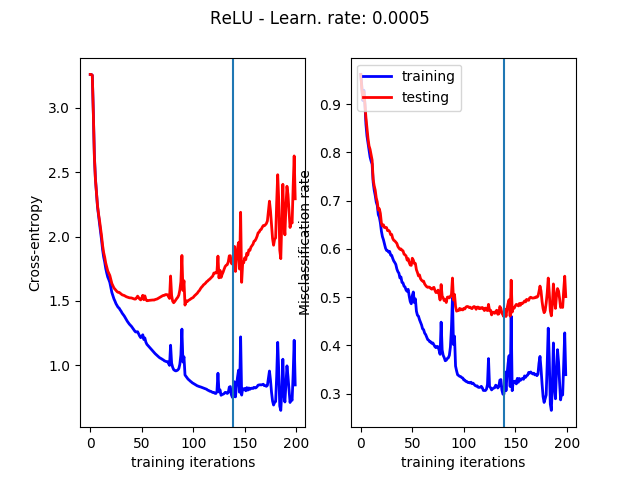
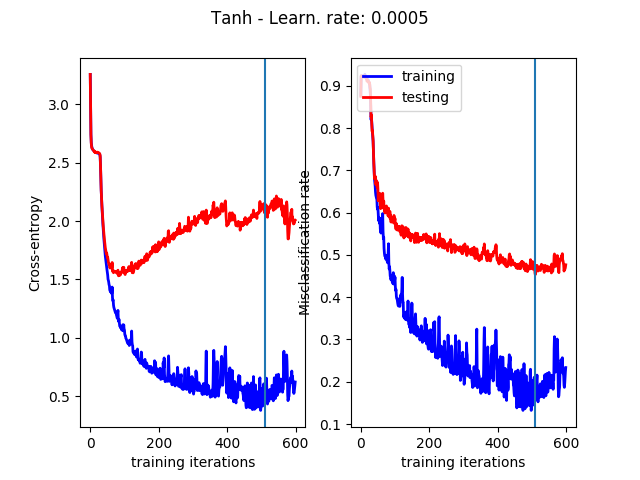
added images, changed title

diff --git a/main.py b/main.py
@@ -103,7 +103,7 @@ def main():
     #       minimal cross-entropy error are preserved for final training, the training is further continued until
     #       the defined epoch limit is reached for the purpose of plotting.
     #       The best epoch determined via early stopping is then shown in the plot as a vertical line.
-    CONFIG_VALIDATION_NUM_OF_TOTAL_TRAIN_EPOCHS = 200
+    CONFIG_VALIDATION_NUM_OF_TOTAL_TRAIN_EPOCHS = 600
 
     # here you can specify the learning rates that should be used during validation
     CONFIG_VALIDATION_LEARNING_RATES = [0.0005, 0.0001, 0.001, 0.002, 0.005, 0.009, 0.01]
